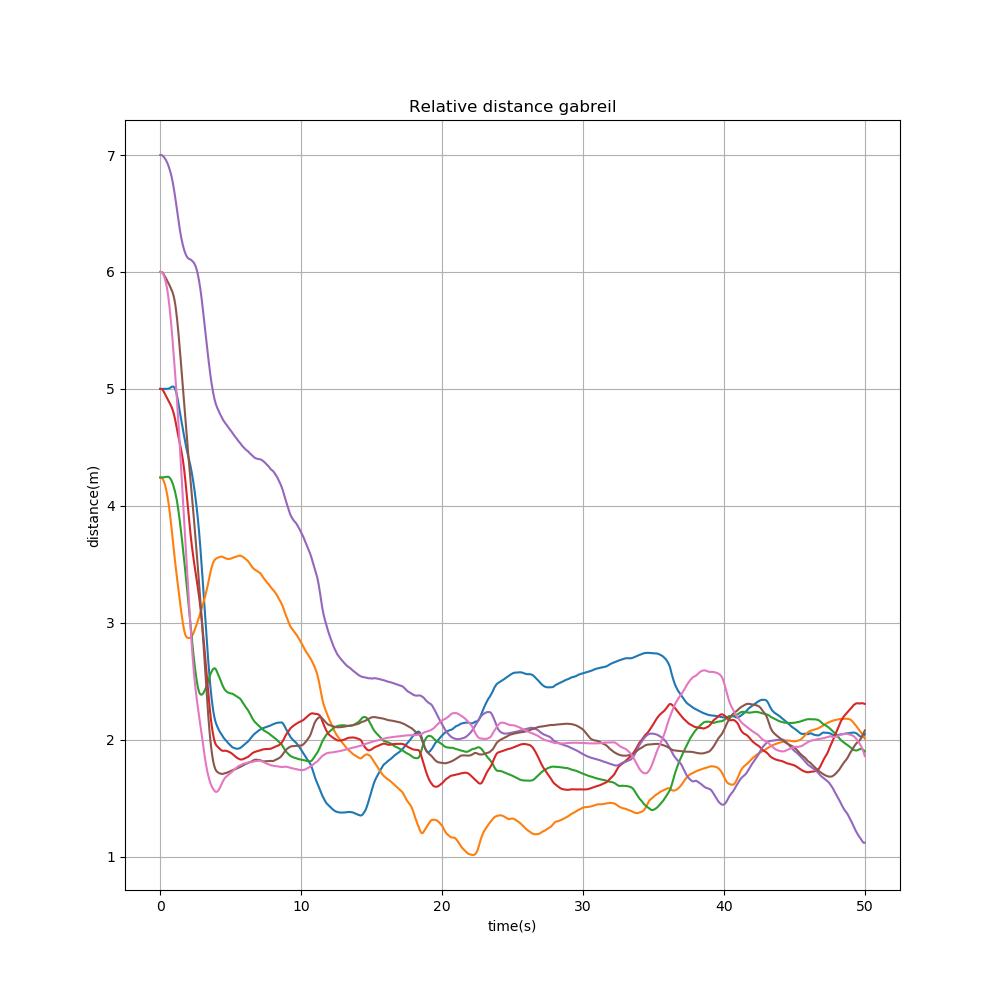
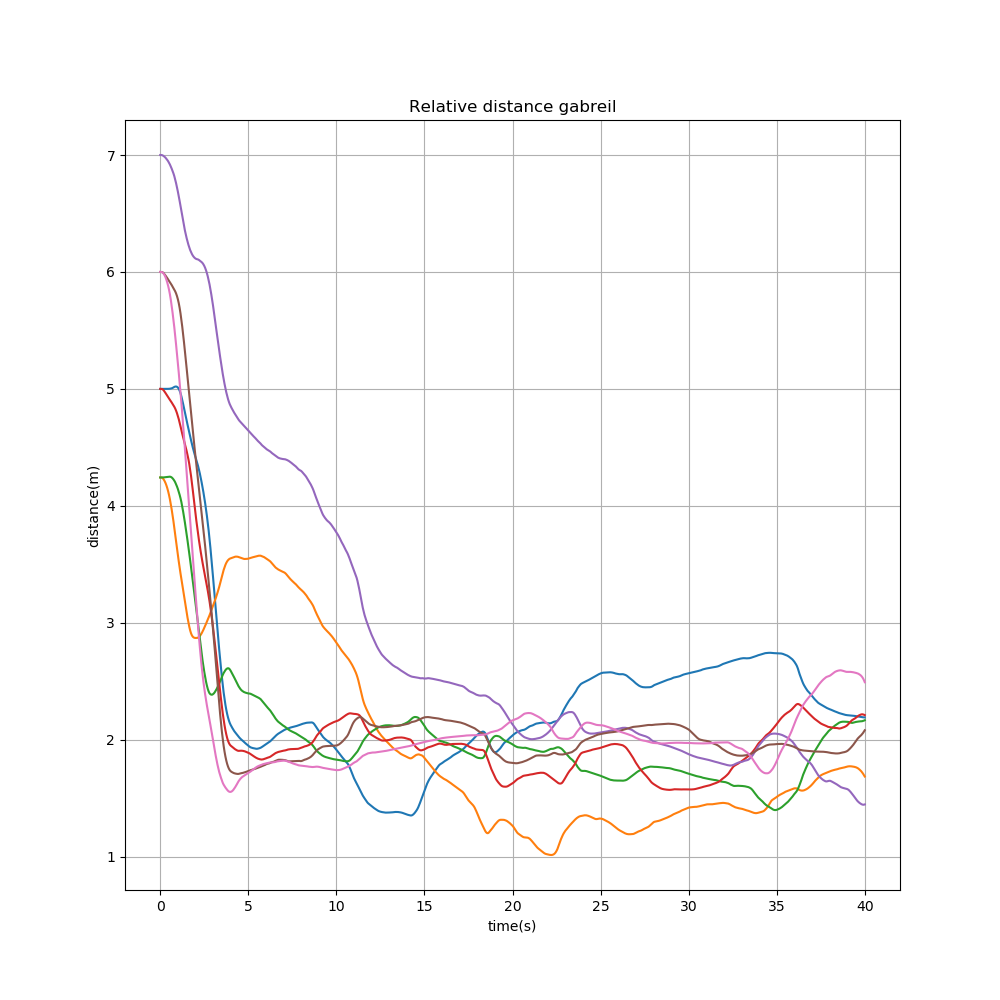
add test result with verp sensor

diff --git a/src/multi_robot_formation/controller.py b/src/multi_robot_formation/controller.py
@@ -257,8 +257,8 @@ class Controller:
             occupancy_map_i = occupancy_maps[i]
             cv2.imshow(str(i), occupancy_map_i)
             cv2.waitKey(1)
-            input_occupancy_maps[0, i, :, :] = occupancy_map_i
-            # input_occupancy_maps[0, i, :, :] = scene_data.observation_list[i].occupancy_map
+            # input_occupancy_maps[0, i, :, :] = occupancy_map_i
+            input_occupancy_maps[0, i, :, :] = scene_data.observation_list[i].occupancy_map
             ref[0, i, 0] = 0
             scale[0, i, 0] = self.desired_distance
 
@@ -360,8 +360,8 @@ class Controller:
         # print(position_lists_global[index])
         orientation_list = scene_data.orientation_list
         # print(scene_data.observation_list[index].occupancy_map)
-        # cv2.imshow(str(index), scene_data.observation_list[index].occupancy_map)
-        # cv2.waitKey(1)
+        cv2.imshow(str(index)+"r", scene_data.observation_list[index].occupancy_map)
+        cv2.waitKey(1)
 
         occupancy_map_simulator = MapSimulator(local=local)
         (
@@ -382,8 +382,8 @@ class Controller:
             cv2.imshow(str(i), occupancy_map_i)
             cv2.waitKey(1)
             if index==i:
-                self_input_occupancy_maps[0, i, :, :] = occupancy_map_i
-            # input_occupancy_maps[0, i, :, :] = scene_data.observation_list[i].occupancy_map
+                # self_input_occupancy_maps[0, i, :, :] = occupancy_map_i
+                self_input_occupancy_maps[0, i, :, :] = scene_data.observation_list[i].occupancy_map
             ref[0, i, 0] = 0
             scale[0, i, 0] = self.desired_distance
 

diff --git a/src/multi_robot_formation/plots/plot_scene.py b/src/multi_robot_formation/plots/plot_scene.py
@@ -224,7 +224,7 @@ def plot_load_data(dt, root_dir):
             trace_array = trace_array_single
             continue
         trace_array = np.concatenate((trace_array, trace_array_single), axis=0)
-    position_array = trace_array[:, :, 0, :2]
+    position_array = trace_array[:, :-200, 0, :2]
     plot_relative_distance(dt, position_array, root_dir)
     plot_relative_distance_gabreil(dt, position_array, root_dir)
     plot_formation_gabreil(position_array, root_dir)
@@ -243,4 +243,4 @@ def plot_load_data(dt, root_dir):
 
 
 if __name__ == "__main__":
-    plot_load_data(0.05, "/home/xinchi/catkin_ws/src/multi_robot_formation/src/multi_robot_formation/saved_data/1")
+    plot_load_data(0.05, "/home/xinchi/catkin_ws/src/multi_robot_formation/src/multi_robot_formation/saved_data/0")

diff --git a/src/multi_robot_formation/vrep/robot_sensor_vrep.py b/src/multi_robot_formation/vrep/robot_sensor_vrep.py
@@ -74,7 +74,7 @@ class Sensor:
         x_world = world_point[0]
         y_world = world_point[1]
         x_map = int((self.max_x - x_world) / (2 * self.max_x) * self.occupancy_map_size)
-        y_map = int((self.max_y - y_world) / (2 * self.max_y) * self.occupancy_map_size)
+        y_map = self.occupancy_map_size-int((self.max_y - y_world) / (2 * self.max_y) * self.occupancy_map_size)
 
         return [x_map, y_map]
 
